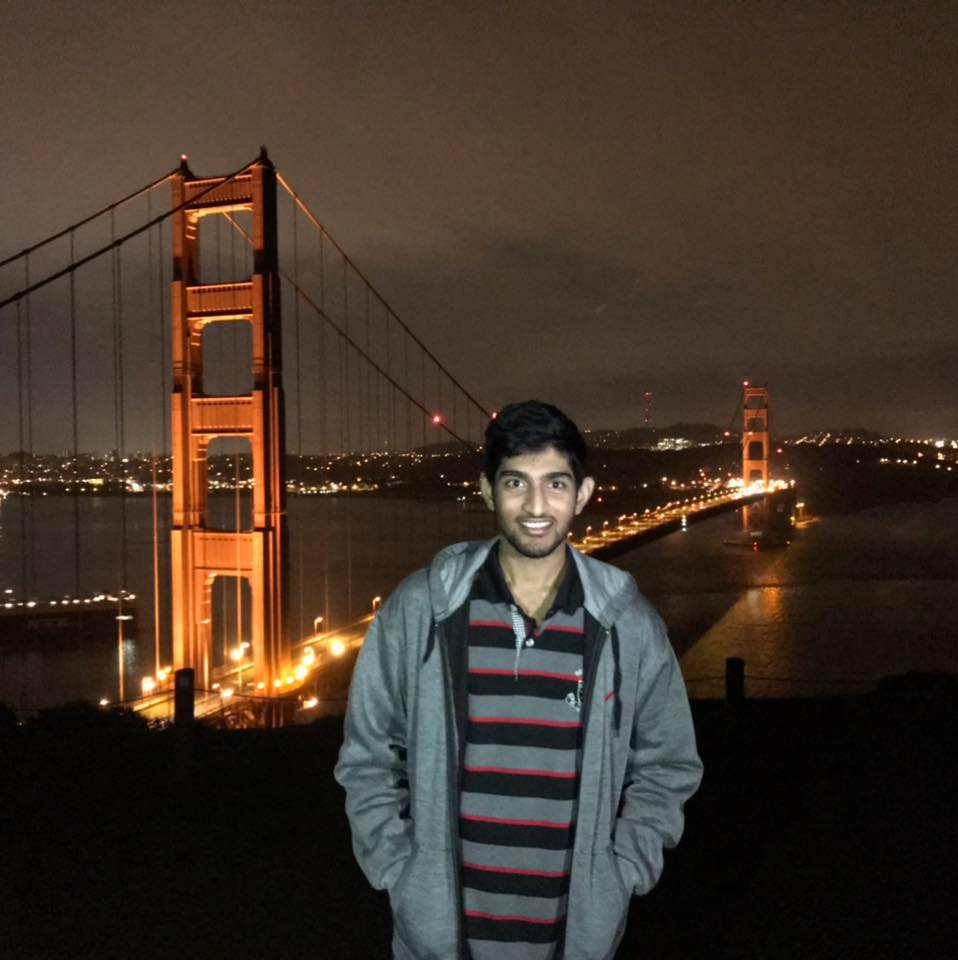
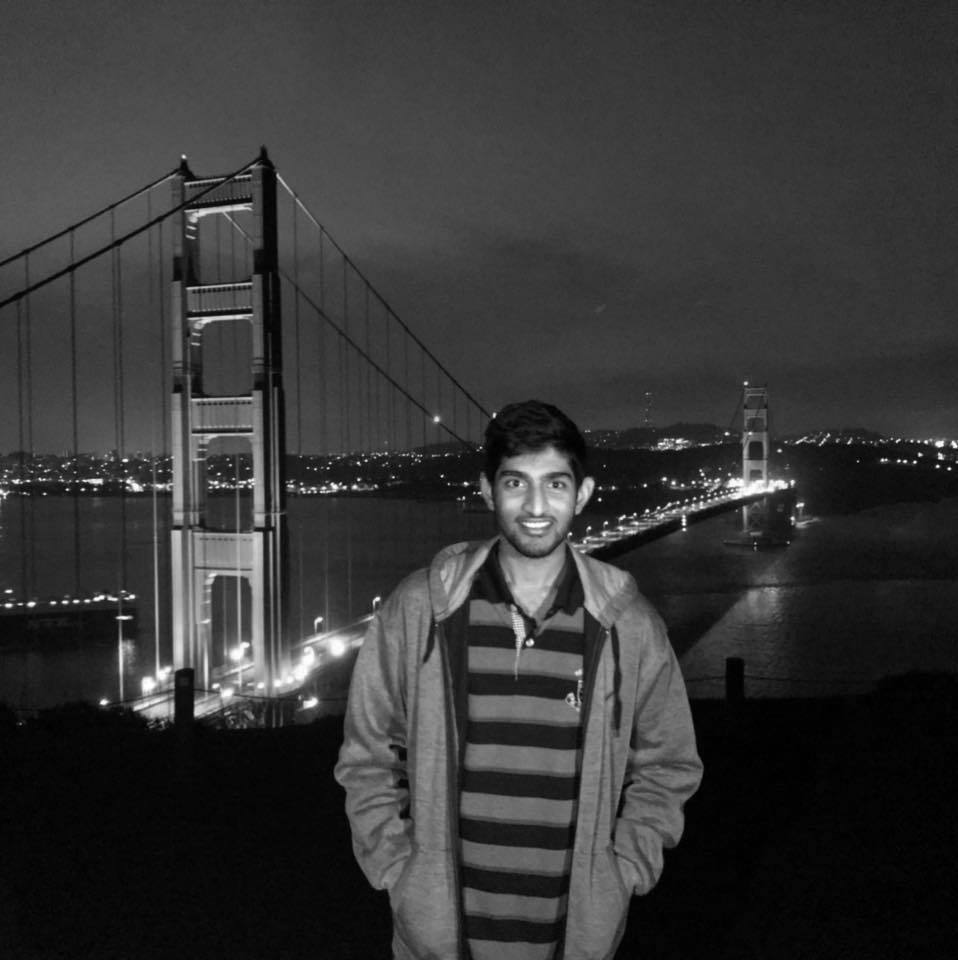
changes

diff --git a/css/styles.css b/css/styles.css
@@ -9,4 +9,4 @@
     Description: This file contains all the styles associated with the page
     that don't come from third party libraries. This file gets compiled using
     Gulp and send to the /css folder which is then loaded on the page.
-*/body{font-family:'Lato', sans-serif;font-size:16px}body.active{overflow:hidden;z-index:-1}.no-js #experience-timeline>div{background:#fff;padding:10px;margin-bottom:10px;border:1px solid #dcd9d9}.no-js #experience-timeline>div h3{font-size:1.5em;font-weight:300;color:#374054;display:inline-block;margin:0}.no-js #experience-timeline>div h4{font-size:1.2em;font-weight:300;color:#7e8890;margin:0 0 15px 0}.no-js #experience-timeline>div p{color:#74808a;font-size:0.9em;margin:0}.no-js #experience-timeline:before,.no-js #experience-timeline:after{content:none}@keyframes dropHeader{0%{transform:translateY(-100%)}100%{transform:translateY(0)}}header{position:absolute;top:0;left:0;right:0;text-align:center;z-index:10;animation-name:dropHeader;animation-iteration-count:1;animation-timing-function:ease;animation-duration:0.75s}header ul{display:inline-block;background:#fff;text-align:center;padding:10px;margin:0;border-bottom-right-radius:4px;border-bottom-left-radius:4px}header li{display:inline-block}header a{display:block;color:#000000;padding:10px}header a:hover{color:#BFBFBF;text-decoration:none;background:#eee;border-radius:4px}header a:focus{color:#000000;text-decoration:none}header.active{display:block}header.sticky{position:fixed;z-index:999}#menu.active{display:block}#mobile-menu-open{display:none;cursor:pointer;position:fixed;right:15px;top:10px;color:#000000;font-size:1.5em;z-index:20;padding:0 7px;border-radius:4px;background:#fff}#mobile-menu-close{display:none;text-align:right;width:100%;background:#fff;font-size:1.5em;padding-right:15px;padding-top:10px;cursor:pointer;color:#000000}#mobile-menu-close span{font-size:0.5em;text-transform:uppercase}#mobile-menu-close i{vertical-align:middle}footer{padding:50px 0}.copyright{padding-top:20px}.copyright p{margin:0;color:#74808a}.top{text-align:center}.top span{cursor:pointer;display:block;margin:15px auto 0 auto;width:35px;height:35px;border-radius:50%;border:3px solid #b9bfc4;text-align:center}.top i{color:#74808a}.social{text-align:right}.social ul{margin:5px 0 0 0;padding:0}.social li{display:inline-block;font-size:1.25em;list-style:none}.social a{display:block;color:#74808a;padding:10px}.social a:hover{color:#000000}.btn-rounded-white{display:inline-block;color:#fff;padding:15px 25px;border:3px solid #fff;border-radius:30px;transition:.5s ease all}.btn-rounded-white:hover{color:#000000;background:#fff;text-decoration:none}.shadow{box-shadow:0 1px 3px rgba(0,0,0,0.12),0 1px 2px rgba(0,0,0,0.24)}.shadow-large{box-shadow:0 3px 6px rgba(0,0,0,0.08),0 3px 6px rgba(0,0,0,0.15)}.heading{position:relative;display:inline-block;font-size:2em;font-weight:300;margin:0 0 30px 0}.heading:after{position:absolute;content:'';top:100%;height:1px;width:50px;left:0;right:0;margin:0 auto;background:#000000}.background-alt{background:#f2f2f5}#lead{position:relative;height:100vh;min-height:500px;max-height:1080px;background:url(../images/lead-bg.png);background-size:cover;padding:15px;overflow:hidden}#lead-content{position:absolute;z-index:10;top:50%;left:50%;transform:translate(-50%, -50%);text-align:center}#lead-content h1,#lead-content h2{margin:0}#lead-content h1{color:#fff;font-weight:900;font-size:5em;text-transform:uppercase;letter-spacing:0.05em;line-height:0.9em}#lead-content h2{color:#fff;font-weight:500;font-size:2.25em;margin-bottom:15px}#lead-overlay{position:absolute;height:100%;width:100%;top:0;right:0;bottom:0;left:0;background:rgba(33,125,187,0.8);z-index:1}#lead-down{position:absolute;left:0;right:0;width:100%;text-align:center;z-index:10;bottom:15px;color:#fff}#lead-down span{cursor:pointer;display:block;margin:0 auto;width:35px;height:35px;border-radius:50%;border:3px solid #dcd9d9;text-align:center}#lead-down i{animation:pulsate 1.5s ease;animation-iteration-count:infinite;padding-top:5px}@keyframes pulsate{0%{transform:scale(1, 1)}50%{transform:scale(1.2, 1.2)}100%{transform:scale(1, 1)}}#about{padding:75px 15px;border-bottom:1px solid #dcd9d9}#about h2{color:#374054}#about p{color:#74808a;margin:0}#experience{padding:50px 15px;text-align:center;border-bottom:1px solid #dcd9d9}#experience h2{color:#374054}#experience-timeline{margin:30px auto 0 auto;position:relative;max-width:1000px}#experience-timeline:before{position:absolute;content:'';top:0;bottom:0;left:303px;right:auto;height:100%;width:3px;background:#000000;z-index:0}#experience-timeline:after{position:absolute;content:'';width:3px;height:40px;background:#000000;background:linear-gradient(to bottom, #000000, rgba(52,152,219,0));top:100%;left:303px}.vtimeline-content{margin-left:350px;background:#fff;border:1px solid #e6e6e6;padding:15px;border-radius:3px;text-align:left}.vtimeline-content h3{font-size:1.5em;font-weight:300;color:#374054;display:inline-block;margin:0}.vtimeline-content h4{font-size:1.2em;font-weight:300;color:#7e8890;margin:0 0 15px 0}.vtimeline-content p{color:#74808a;font-size:0.9em;margin:0}.vtimeline-point{position:relative;display:block;vertical-align:top;margin-bottom:30px}.vtimeline-icon{position:relative;color:#fff;width:50px;height:50px;background:#000000;border-radius:50%;float:left;z-index:99;margin-left:280px}.vtimeline-icon i{display:block;font-size:2em;margin-top:10px}.vtimeline-date{width:260px;text-align:right;position:absolute;left:0;top:10px;font-weight:300;color:#374054}#education{padding:50px 15px 20px 15px;border-bottom:1px solid #dcd9d9;text-align:center}#education h2{color:#374054;margin-bottom:50px}.education-block{max-width:700px;margin:0 auto 30px auto;padding:15px;border:1px solid #dcd9d9;text-align:left}.education-block h3{font-weight:500;float:left;margin:0;color:#374054}.education-block span{color:#74808a;float:right}.education-block h4{color:#74808a;clear:both;font-weight:500;margin:0 0 15px 0}.education-block p,.education-block ul{margin:0;color:#74808a;font-size:0.9em}.education-block ul{padding:0 0 0 15px}#projects{padding:50px 15px;border-bottom:1px solid #dcd9d9;text-align:center}#projects h2{color:#374054;margin-bottom:50px}.project{position:relative;max-width:900px;margin:0 auto 30px auto;overflow:hidden;background:#fff;border-radius:4px}.project-image{float:left}.project-info{position:absolute;top:50%;transform:translateY(-50%);margin-left:300px;padding:15px}.project-info h3{font-size:1.5em;font-weight:300;color:#374054;margin:0 0 15px 0}.project-info p{color:#74808a;margin:0 0 15px 0;font-size:0.9em}.no-image .project-info{position:relative;margin:0;padding:30px 15px;transform:none}#more-projects{display:none}#skills{padding:50px 15px;text-align:center}#skills h2{color:#374054;margin-bottom:50px}#skills ul{display:block;margin:0 auto;padding:0;max-width:800px}#skills li{display:inline-block;margin:7px;padding:5px 10px;color:#374054;background:#e4e4ea;list-style:none;cursor:default;font-size:1.2em}#contact{padding:50px 15px;background:#000000;text-align:center}#contact h2{margin:0 0 15px 0;color:#fff;font-weight:500}#contact-form{max-width:500px;margin:0 auto}#contact-form input,#contact-form textarea{display:block;width:100%;padding:10px;border-radius:4px;border:none;margin-bottom:10px;background:#1d6fa5;color:#fff;transition:.5s ease all}#contact-form input::-webkit-input-placeholder,#contact-form textarea::-webkit-input-placeholder{color:#fff}#contact-form input:-moz-placeholder,#contact-form textarea:-moz-placeholder{color:#fff;opacity:1}#contact-form input::-moz-placeholder,#contact-form textarea::-moz-placeholder{color:#fff;opacity:1}#contact-form input:-ms-input-placeholder,#contact-form textarea:-ms-input-placeholder{color:#fff}#contact-form input:focus,#contact-form textarea:focus{outline:none;background:#16527a}#contact-form textarea{height:150px;resize:none}#contact-form button{display:block;width:100%;background:#fff;border-radius:4px;padding:5px 10px;border:none;color:#000000;font-weight:700;box-shadow:0 1px 3px rgba(0,0,0,0.12),0 1px 2px rgba(0,0,0,0.24);transition:.5s ease all}#contact-form button:hover{box-shadow:0 10px 20px rgba(0,0,0,0.19),0 6px 6px rgba(0,0,0,0.23)}.optional-section{padding:50px 15px;text-align:center;border-top:1px solid #dcd9d9}.optional-section h2{color:#374054}.optional-section-block{max-width:700px;margin:0 auto 30px auto;padding:15px;border:1px solid #dcd9d9;background:#fff;text-align:left}.optional-section-block h3{font-weight:500;margin:0 0 15px 0;color:#374054}.optional-section-block h4{color:#74808a;clear:both;font-weight:500;margin:0 0 15px 0}.optional-section-block p,.optional-section-block ul{margin:0 0 15px 0;color:#74808a;font-size:0.9em}.optional-section-block ul{padding:0 0 0 15px}@media only screen and (max-width: 750px){#experience-timeline:before,#experience-timeline:after{left:23px}.vtimeline-date{width:auto;text-align:left;position:relative;margin-bottom:15px;display:block;margin-left:70px}.vtimeline-icon{margin-left:0}.vtimeline-content{margin-left:70px}}@media only screen and (max-width: 992px){#lead{height:auto;min-height:auto;max-height:auto;padding:100px 15px}#lead-content{position:relative;transform:none;left:auto;top:auto}#lead-content h1{font-size:3em}#lead-content h2{font-size:1.75em}#about{text-align:center}#about p{text-align:left}}@media only screen and (max-width: 768px){header{position:fixed;display:none;z-index:999;animation:none;bottom:0;height:100%}#mobile-menu-open,#mobile-menu-close{display:block}#menu{height:100%;overflow-y:auto;box-shadow:none;border-radius:0;width:100%}#menu li{display:block;margin-bottom:10px}#lead-content h1{font-size:2em}#lead-content h2{font-size:1.3em}#lead-content a{padding:10px 20px}#lead-down{display:none}.education-block h3,.education-block span{float:none}.project-image{display:none}.project-info{position:relative;margin:0;padding:30px 15px;top:auto;transform:none}footer{text-align:center}.social{text-align:center}}@media only screen and (max-width: 480px){#lead-content h1{font-size:1.5em}#lead-content h2{font-size:1em}#lead-content a{font-size:0.9em;padding:5px 10px}}
+*/body{font-family:'Lato', sans-serif;font-size:16px}body.active{overflow:hidden;z-index:-1}.no-js #experience-timeline>div{background:#fff;padding:10px;margin-bottom:10px;border:1px solid #dcd9d9}.no-js #experience-timeline>div h3{font-size:1.5em;font-weight:300;color:#374054;display:inline-block;margin:0}.no-js #experience-timeline>div h4{font-size:1.2em;font-weight:300;color:#7e8890;margin:0 0 15px 0}.no-js #experience-timeline>div p{color:#74808a;font-size:0.9em;margin:0}.no-js #experience-timeline:before,.no-js #experience-timeline:after{content:none}@keyframes dropHeader{0%{transform:translateY(-100%)}100%{transform:translateY(0)}}header{position:absolute;top:0;left:0;right:0;text-align:center;z-index:10;animation-name:dropHeader;animation-iteration-count:1;animation-timing-function:ease;animation-duration:0.75s}header ul{display:inline-block;background:#fff;text-align:center;padding:10px;margin:0;border-bottom-right-radius:4px;border-bottom-left-radius:4px}header li{display:inline-block}header a{display:block;color:#000000;padding:10px}header a:hover{color:#BFBFBF;text-decoration:none;background:#eee;border-radius:4px}header a:focus{color:#000000;text-decoration:none}header.active{display:block}header.sticky{position:fixed;z-index:999}#menu.active{display:block}#mobile-menu-open{display:none;cursor:pointer;position:fixed;right:15px;top:10px;color:#000000;font-size:1.5em;z-index:20;padding:0 7px;border-radius:4px;background:#fff}#mobile-menu-close{display:none;text-align:right;width:100%;background:#fff;font-size:1.5em;padding-right:15px;padding-top:10px;cursor:pointer;color:#000000}#mobile-menu-close span{font-size:0.5em;text-transform:uppercase}#mobile-menu-close i{vertical-align:middle}footer{padding:50px 0}.copyright{padding-top:20px}.copyright p{margin:0;color:#74808a}.top{text-align:center}.top span{cursor:pointer;display:block;margin:15px auto 0 auto;width:35px;height:35px;border-radius:50%;border:3px solid #b9bfc4;text-align:center}.top i{color:#74808a}.social{text-align:right}.social ul{margin:5px 0 0 0;padding:0}.social li{display:inline-block;font-size:1.25em;list-style:none}.social a{display:block;color:#74808a;padding:10px}.social a:hover{color:#000000}.btn-rounded-white{display:inline-block;color:#fff;padding:15px 25px;border:3px solid #fff;border-radius:30px;transition:.5s ease all}.btn-rounded-white:hover{color:#000000;background:#fff;text-decoration:none}.shadow{box-shadow:0 1px 3px rgba(0,0,0,0.12),0 1px 2px rgba(0,0,0,0.24)}.shadow-large{box-shadow:0 3px 6px rgba(0,0,0,0.08),0 3px 6px rgba(0,0,0,0.15)}.heading{position:relative;display:inline-block;font-size:2em;font-weight:300;margin:0 0 30px 0}.heading:after{position:absolute;content:'';top:100%;height:1px;width:50px;left:0;right:0;margin:0 auto;background:#000000}.background-alt{background:#f2f2f5}#lead{position:relative;height:100vh;min-height:500px;max-height:1080px;background:url(../images/praneeth.jpg);background-size:cover;padding:15px;overflow:hidden}#lead-content{position:absolute;z-index:10;top:50%;left:50%;transform:translate(-50%, -50%);text-align:center}#lead-content h1,#lead-content h2{margin:0}#lead-content h1{color:#fff;font-weight:900;font-size:5em;text-transform:uppercase;letter-spacing:0.05em;line-height:0.9em}#lead-content h2{color:#fff;font-weight:500;font-size:2.25em;margin-bottom:15px}#lead-overlay{position:absolute;height:100%;width:100%;top:0;right:0;bottom:0;left:0;background:rgba(33,125,187,0.8);z-index:1}#lead-down{position:absolute;left:0;right:0;width:100%;text-align:center;z-index:10;bottom:15px;color:#fff}#lead-down span{cursor:pointer;display:block;margin:0 auto;width:35px;height:35px;border-radius:50%;border:3px solid #dcd9d9;text-align:center}#lead-down i{animation:pulsate 1.5s ease;animation-iteration-count:infinite;padding-top:5px}@keyframes pulsate{0%{transform:scale(1, 1)}50%{transform:scale(1.2, 1.2)}100%{transform:scale(1, 1)}}#about{padding:75px 15px;border-bottom:1px solid #dcd9d9}#about h2{color:#374054}#about p{color:#74808a;margin:0}#experience{padding:50px 15px;text-align:center;border-bottom:1px solid #dcd9d9}#experience h2{color:#374054}#experience-timeline{margin:30px auto 0 auto;position:relative;max-width:1000px}#experience-timeline:before{position:absolute;content:'';top:0;bottom:0;left:303px;right:auto;height:100%;width:3px;background:#000000;z-index:0}#experience-timeline:after{position:absolute;content:'';width:3px;height:40px;background:#000000;background:linear-gradient(to bottom, #000000, rgba(52,152,219,0));top:100%;left:303px}.vtimeline-content{margin-left:350px;background:#fff;border:1px solid #e6e6e6;padding:15px;border-radius:3px;text-align:left}.vtimeline-content h3{font-size:1.5em;font-weight:300;color:#374054;display:inline-block;margin:0}.vtimeline-content h4{font-size:1.2em;font-weight:300;color:#7e8890;margin:0 0 15px 0}.vtimeline-content p{color:#74808a;font-size:0.9em;margin:0}.vtimeline-point{position:relative;display:block;vertical-align:top;margin-bottom:30px}.vtimeline-icon{position:relative;color:#fff;width:50px;height:50px;background:#000000;border-radius:50%;float:left;z-index:99;margin-left:280px}.vtimeline-icon i{display:block;font-size:2em;margin-top:10px}.vtimeline-date{width:260px;text-align:right;position:absolute;left:0;top:10px;font-weight:300;color:#374054}#education{padding:50px 15px 20px 15px;border-bottom:1px solid #dcd9d9;text-align:center}#education h2{color:#374054;margin-bottom:50px}.education-block{max-width:700px;margin:0 auto 30px auto;padding:15px;border:1px solid #dcd9d9;text-align:left}.education-block h3{font-weight:500;float:left;margin:0;color:#374054}.education-block span{color:#74808a;float:right}.education-block h4{color:#74808a;clear:both;font-weight:500;margin:0 0 15px 0}.education-block p,.education-block ul{margin:0;color:#74808a;font-size:0.9em}.education-block ul{padding:0 0 0 15px}#projects{padding:50px 15px;border-bottom:1px solid #dcd9d9;text-align:center}#projects h2{color:#374054;margin-bottom:50px}.project{position:relative;max-width:900px;margin:0 auto 30px auto;overflow:hidden;background:#fff;border-radius:4px}.project-image{float:left}.project-info{position:absolute;top:50%;transform:translateY(-50%);margin-left:300px;padding:15px}.project-info h3{font-size:1.5em;font-weight:300;color:#374054;margin:0 0 15px 0}.project-info p{color:#74808a;margin:0 0 15px 0;font-size:0.9em}.no-image .project-info{position:relative;margin:0;padding:30px 15px;transform:none}#more-projects{display:none}#skills{padding:50px 15px;text-align:center}#skills h2{color:#374054;margin-bottom:50px}#skills ul{display:block;margin:0 auto;padding:0;max-width:800px}#skills li{display:inline-block;margin:7px;padding:5px 10px;color:#374054;background:#e4e4ea;list-style:none;cursor:default;font-size:1.2em}#contact{padding:50px 15px;background:#000000;text-align:center}#contact h2{margin:0 0 15px 0;color:#fff;font-weight:500}#contact-form{max-width:500px;margin:0 auto}#contact-form input,#contact-form textarea{display:block;width:100%;padding:10px;border-radius:4px;border:none;margin-bottom:10px;background:#1d6fa5;color:#fff;transition:.5s ease all}#contact-form input::-webkit-input-placeholder,#contact-form textarea::-webkit-input-placeholder{color:#fff}#contact-form input:-moz-placeholder,#contact-form textarea:-moz-placeholder{color:#fff;opacity:1}#contact-form input::-moz-placeholder,#contact-form textarea::-moz-placeholder{color:#fff;opacity:1}#contact-form input:-ms-input-placeholder,#contact-form textarea:-ms-input-placeholder{color:#fff}#contact-form input:focus,#contact-form textarea:focus{outline:none;background:#16527a}#contact-form textarea{height:150px;resize:none}#contact-form button{display:block;width:100%;background:#fff;border-radius:4px;padding:5px 10px;border:none;color:#000000;font-weight:700;box-shadow:0 1px 3px rgba(0,0,0,0.12),0 1px 2px rgba(0,0,0,0.24);transition:.5s ease all}#contact-form button:hover{box-shadow:0 10px 20px rgba(0,0,0,0.19),0 6px 6px rgba(0,0,0,0.23)}.optional-section{padding:50px 15px;text-align:center;border-top:1px solid #dcd9d9}.optional-section h2{color:#374054}.optional-section-block{max-width:700px;margin:0 auto 30px auto;padding:15px;border:1px solid #dcd9d9;background:#fff;text-align:left}.optional-section-block h3{font-weight:500;margin:0 0 15px 0;color:#374054}.optional-section-block h4{color:#74808a;clear:both;font-weight:500;margin:0 0 15px 0}.optional-section-block p,.optional-section-block ul{margin:0 0 15px 0;color:#74808a;font-size:0.9em}.optional-section-block ul{padding:0 0 0 15px}@media only screen and (max-width: 750px){#experience-timeline:before,#experience-timeline:after{left:23px}.vtimeline-date{width:auto;text-align:left;position:relative;margin-bottom:15px;display:block;margin-left:70px}.vtimeline-icon{margin-left:0}.vtimeline-content{margin-left:70px}}@media only screen and (max-width: 992px){#lead{height:auto;min-height:auto;max-height:auto;padding:100px 15px}#lead-content{position:relative;transform:none;left:auto;top:auto}#lead-content h1{font-size:3em}#lead-content h2{font-size:1.75em}#about{text-align:center}#about p{text-align:left}}@media only screen and (max-width: 768px){header{position:fixed;display:none;z-index:999;animation:none;bottom:0;height:100%}#mobile-menu-open,#mobile-menu-close{display:block}#menu{height:100%;overflow-y:auto;box-shadow:none;border-radius:0;width:100%}#menu li{display:block;margin-bottom:10px}#lead-content h1{font-size:2em}#lead-content h2{font-size:1.3em}#lead-content a{padding:10px 20px}#lead-down{display:none}.education-block h3,.education-block span{float:none}.project-image{display:none}.project-info{position:relative;margin:0;padding:30px 15px;top:auto;transform:none}footer{text-align:center}.social{text-align:center}}@media only screen and (max-width: 480px){#lead-content h1{font-size:1.5em}#lead-content h2{font-size:1em}#lead-content a{font-size:0.9em;padding:5px 10px}}
